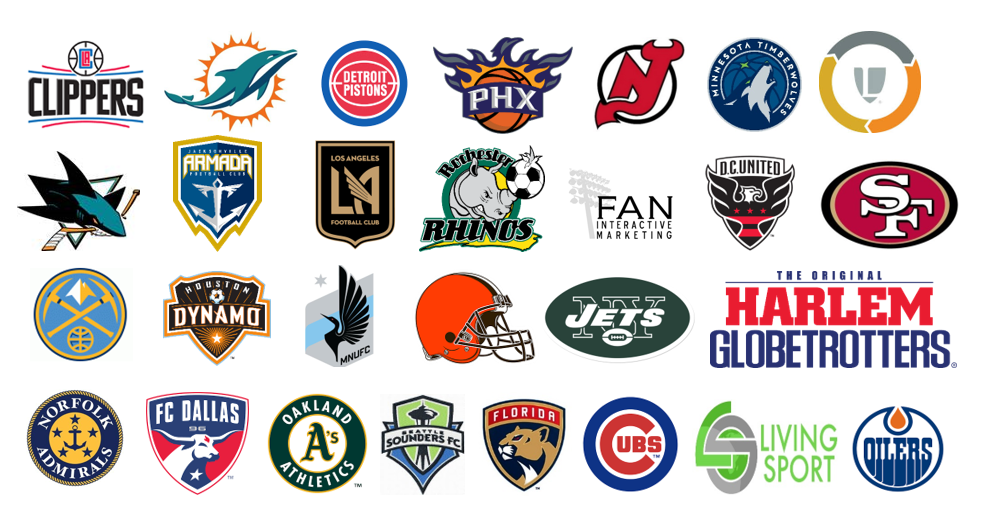
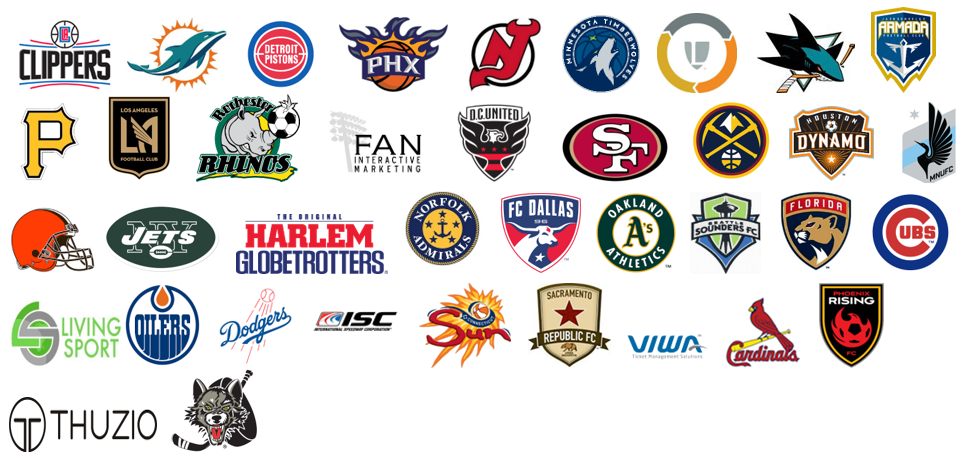
Updated client photos.

diff --git a/resources/views/training-consulting.blade.php b/resources/views/training-consulting.blade.php
@@ -195,7 +195,7 @@
             <h3 id="training-clients">Our training &amp; consulting clients</h3>
         </div>
         <div class="col s12">
-            <img src="/images/training-consulting/training-clients.png?v=3" alt="">
+            <img src="/images/training-consulting/training-clients.png?v=4" alt="">
         </div>
     </div>
 </div>

diff --git a/resources/views/recruiting.blade.php b/resources/views/recruiting.blade.php
@@ -179,7 +179,7 @@
             <h3 id="recruiting-clients">Our recruiting clients</h3>
         </div>
         <div class="col s12">
-            <img src="/images/recruiting/recruiting-clients.png?v=3" alt="">
+            <img src="/images/recruiting/recruiting-clients.png?v=4" alt="">
         </div>
     </div>
 </div>

diff --git a/resources/views/index.blade.php b/resources/views/index.blade.php
@@ -40,7 +40,7 @@
     </div>
     <div class="row">
         <div class="col s12 center-align">
-            <img src="/images/home/clients.png?v=4" alt="" style="margin-bottom: 60px;">
+            <img src="/images/home/clients.png?v=5" alt="" style="margin-bottom: 60px;">
         </div>
     </div>
 </div>
